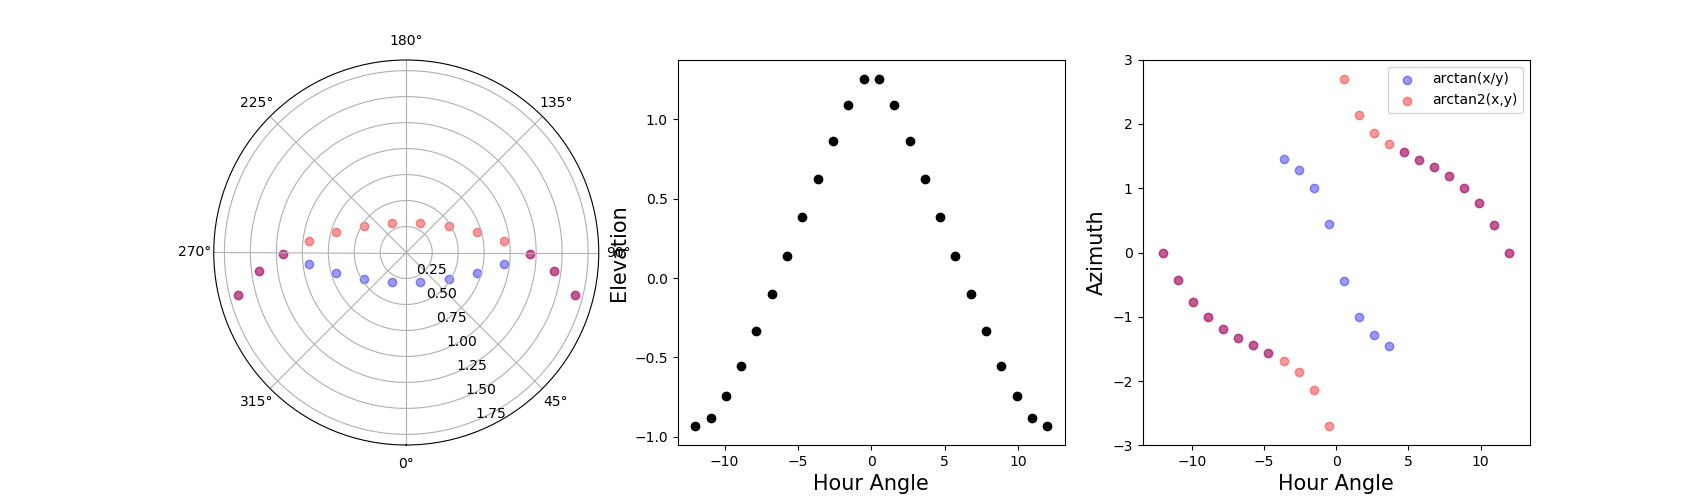
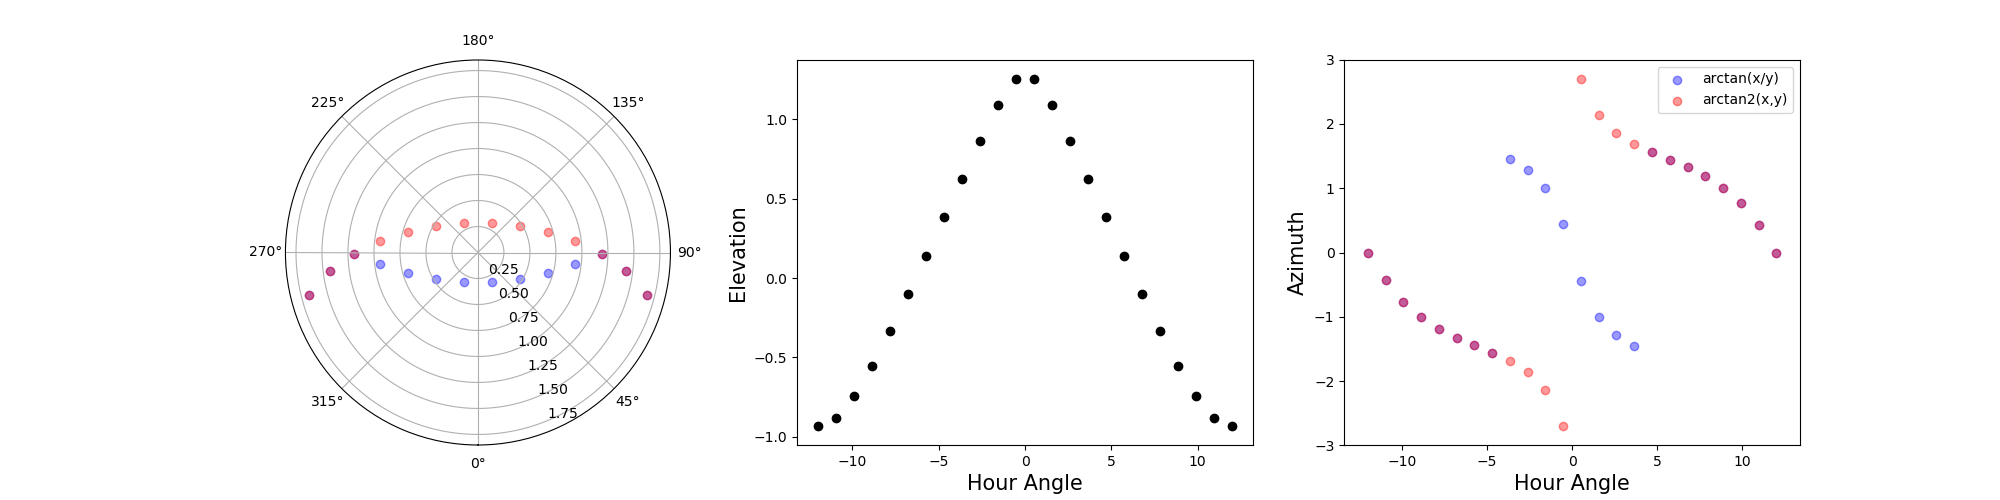
Made things more readable

diff --git a/Conversion.py b/Conversion.py
@@ -28,7 +28,7 @@ elevation, azimuth, azimuth2 = from_celestial_to_horizontal(hour_angles/24*2*num
 print(elevation)
 print(numpy.deg2rad(azimuth))
 
-fig = pyplot.figure(figsize=(17,5))
+fig = pyplot.figure(figsize=(20,5))
 axes1= fig.add_subplot(131, polar = True)
 axes2= fig.add_subplot(132)
 axes3= fig.add_subplot(133)
